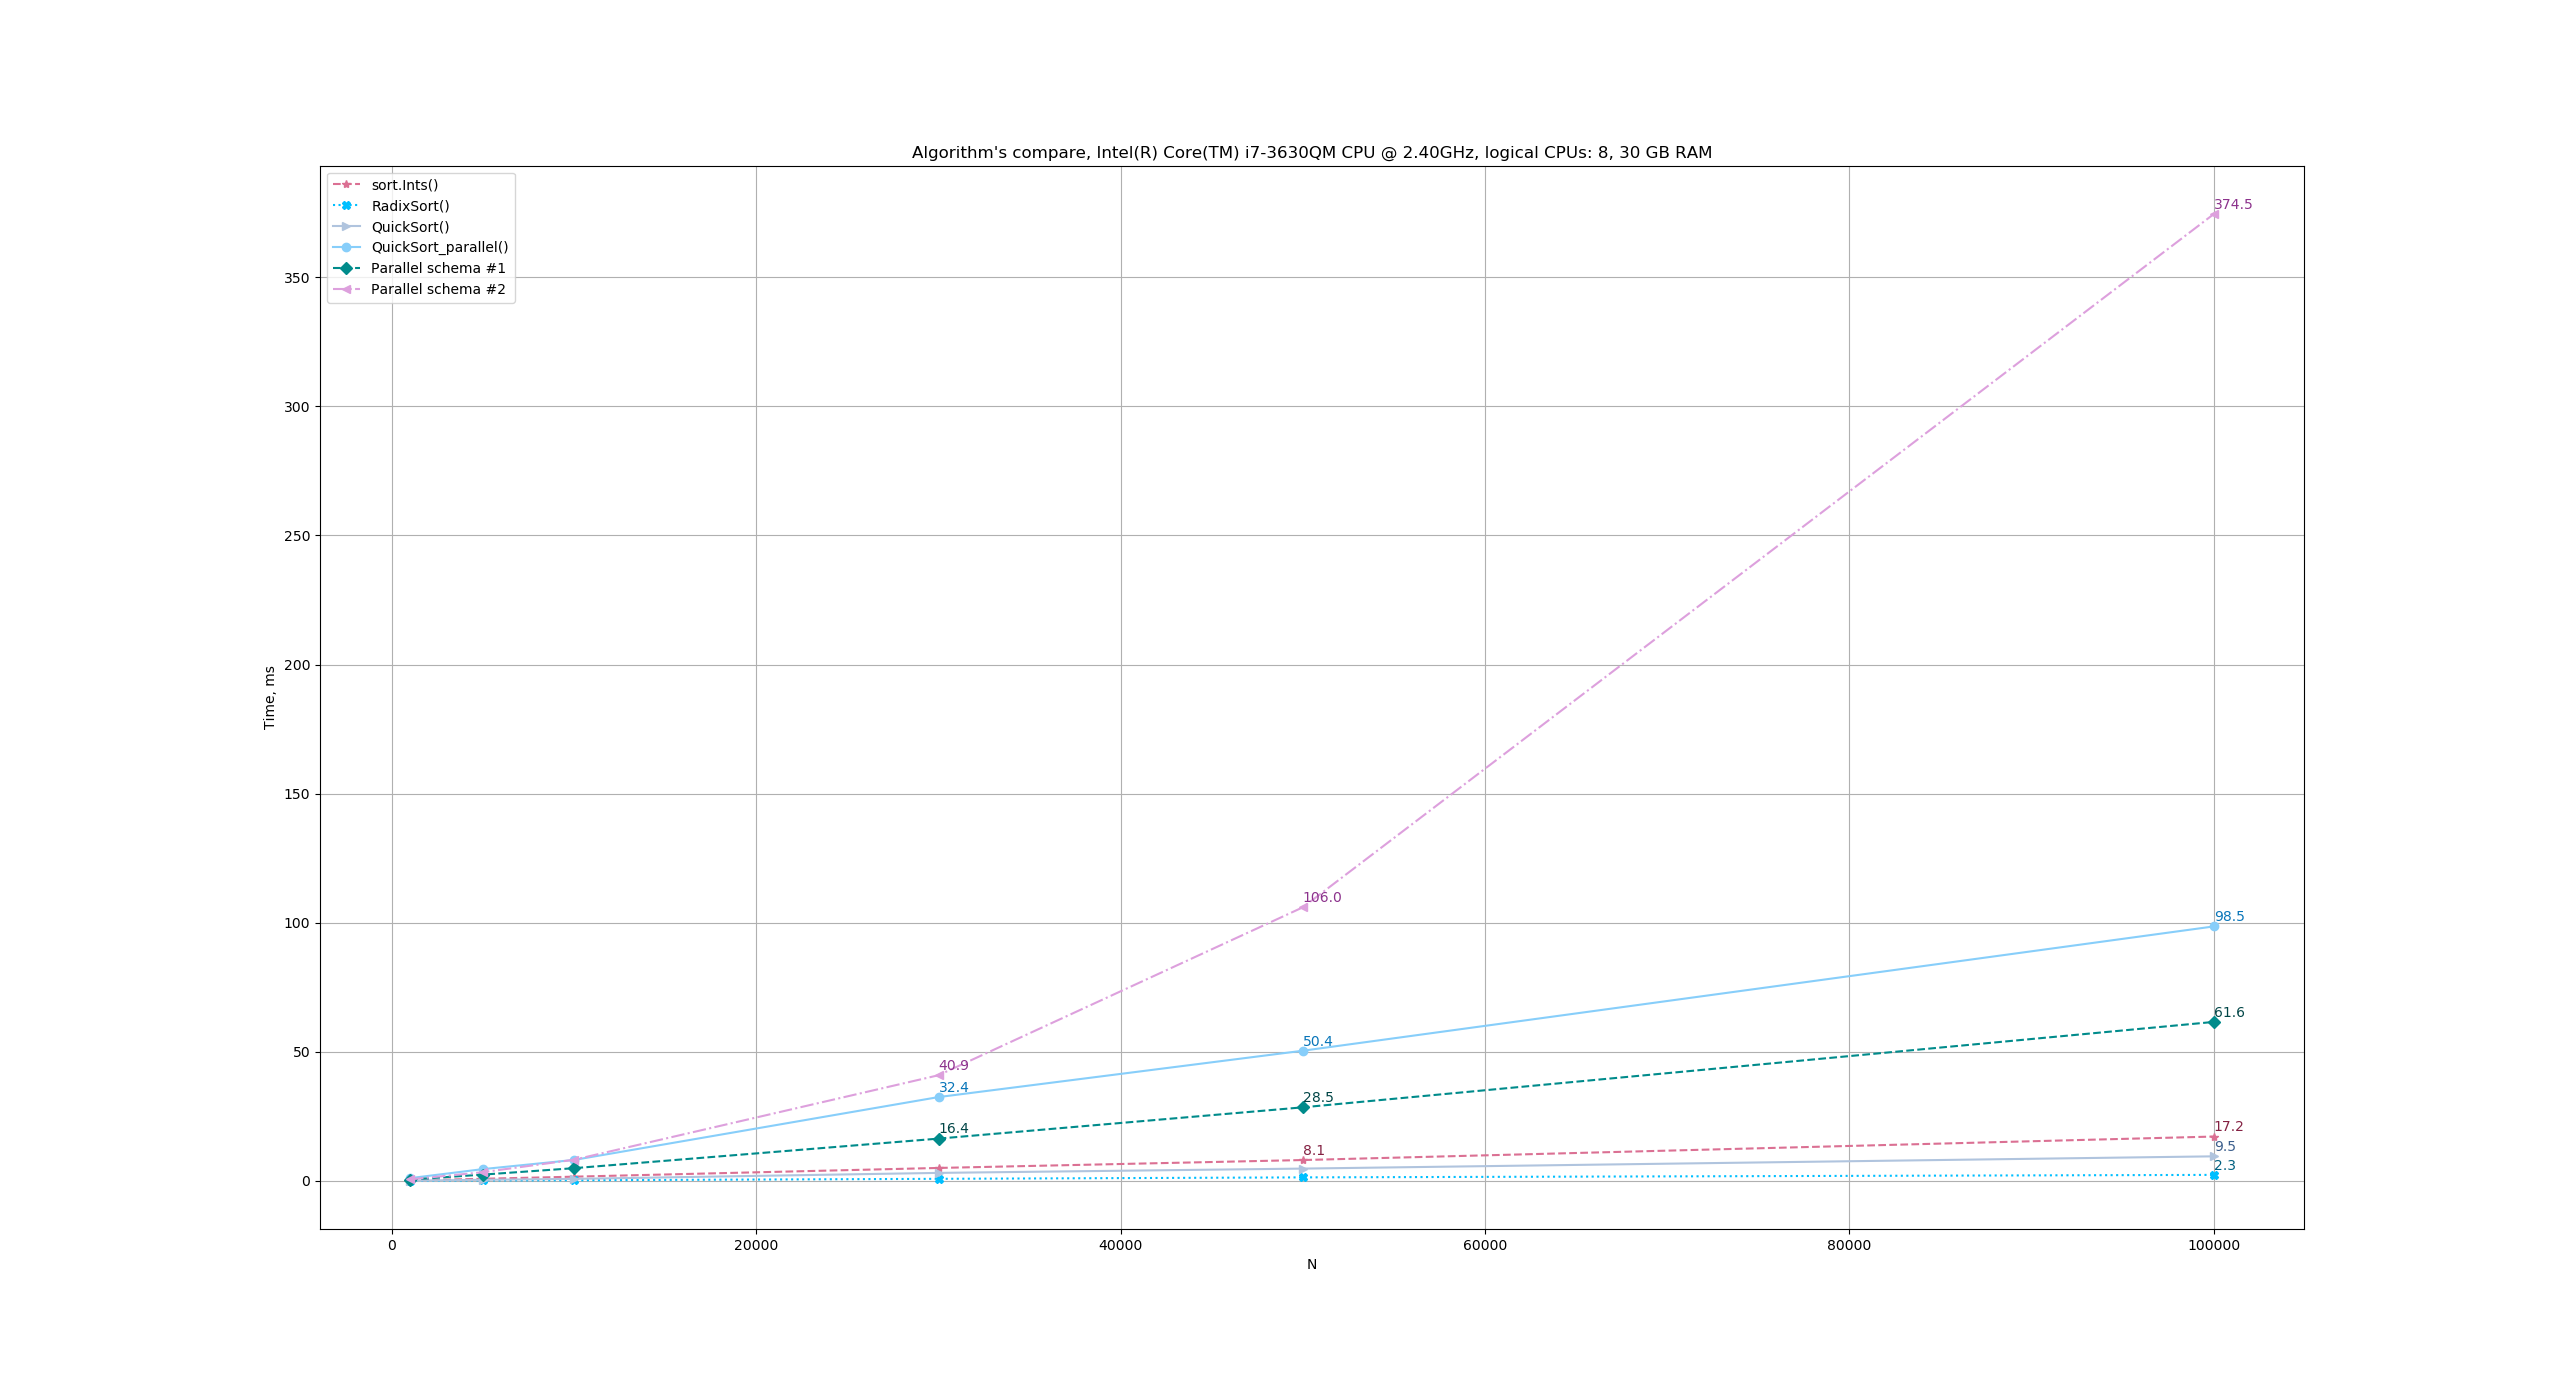
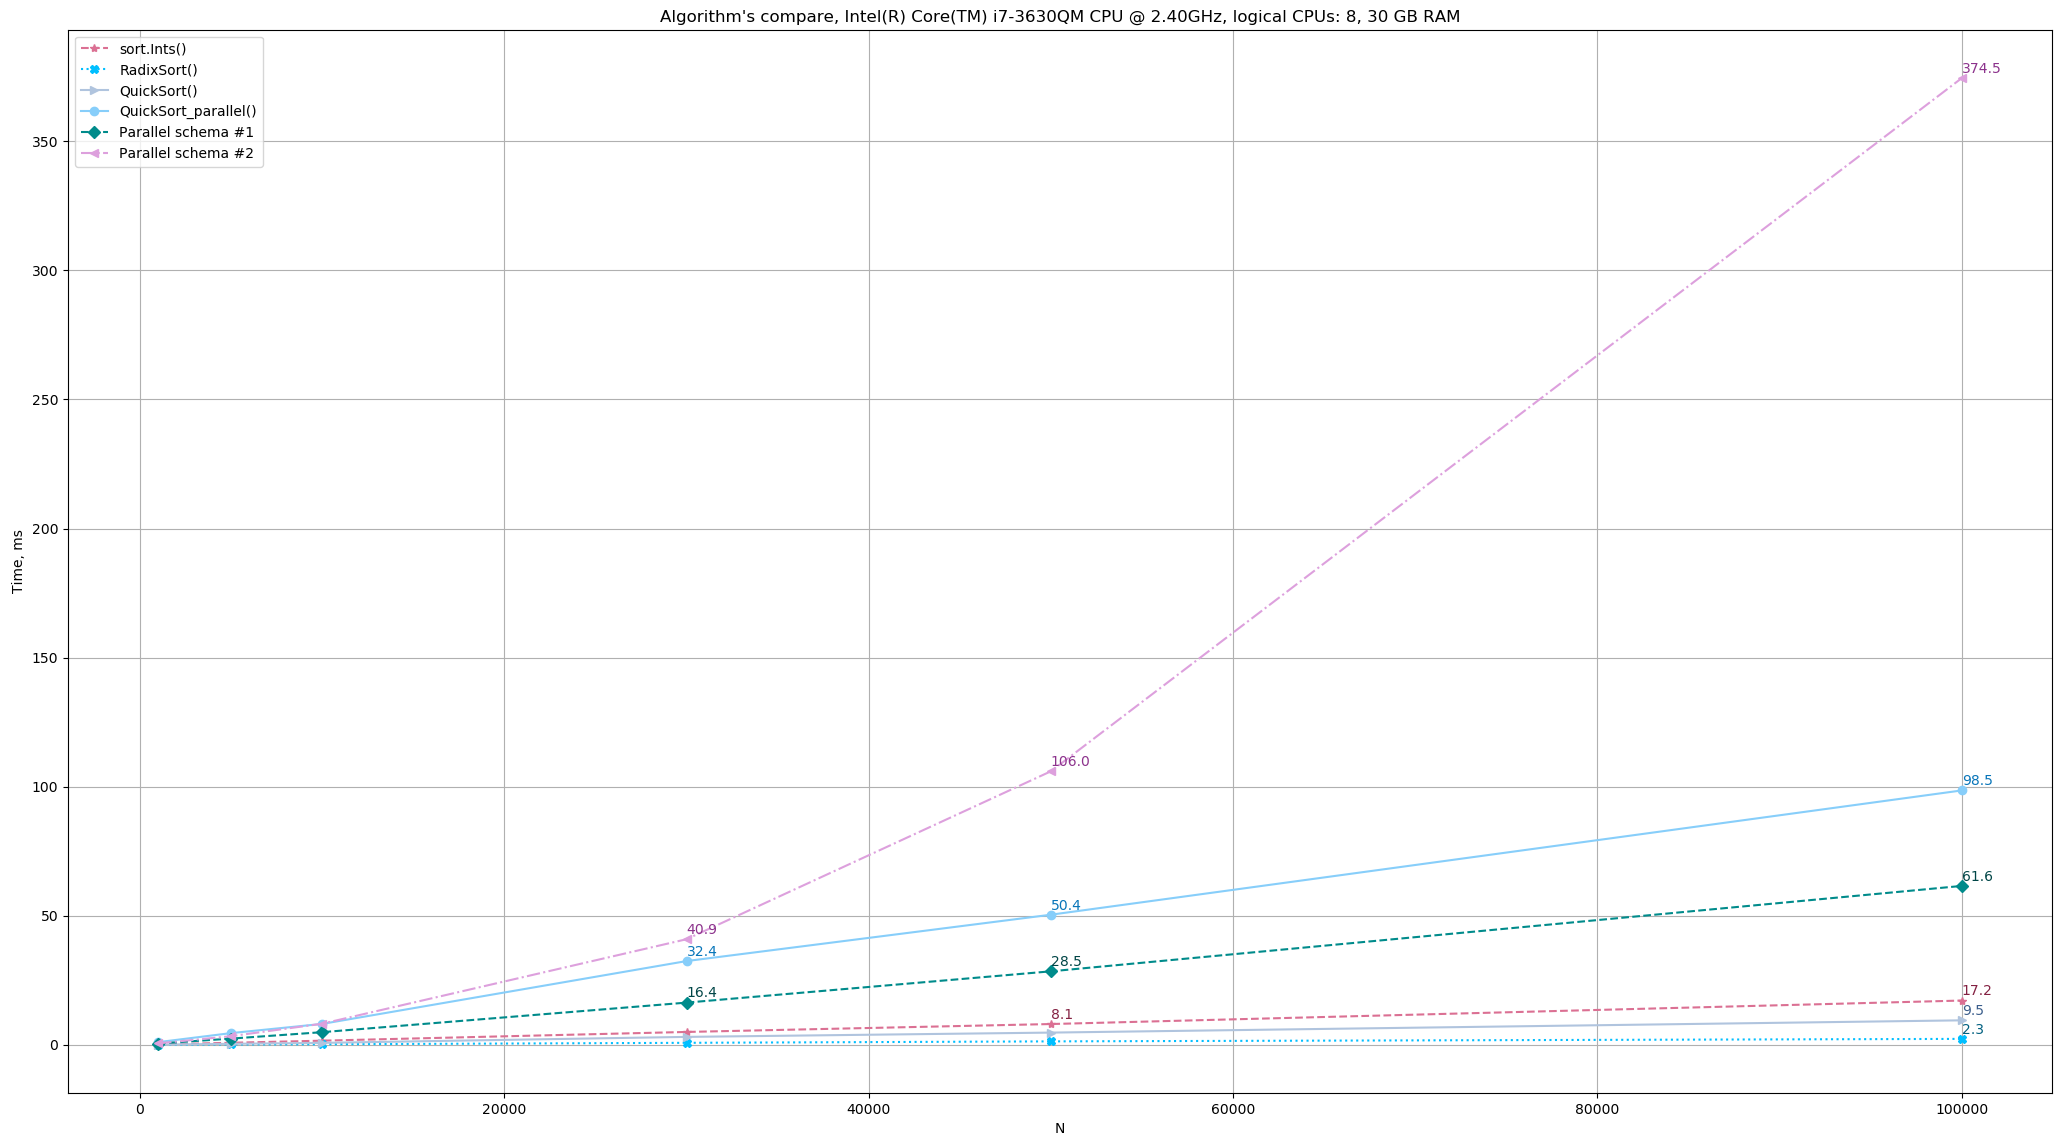
new readme4

diff --git a/README.md b/README.md
@@ -1,5 +1,7 @@
 # Comparison of sorting algorithms in Golang
 
+![dot.png](gopher.png)
+
 When we have any computer tool, we want to know how fast it is. This is a normal life situation.
 In the case of Golang, we have a concurrency scheme. What is it? Will it be efficient, for example, to sort digits?
 Concurrency and parallelism are not the same thing, but what can we have as a result of this?
@@ -19,3 +21,7 @@ Here we should then try to run this algorithm on a large data array, perhaps the
 
 * Parallel schema #1, #2 - is the use of various Go approaches to synchronize calls of classic QuickSort() on chunks of the original array. 
 Synchronization approaches were used, which could be googled on the Internet in about 10 minutes of searching.
+
+## Results
+
+![dot.png](example3.png)
